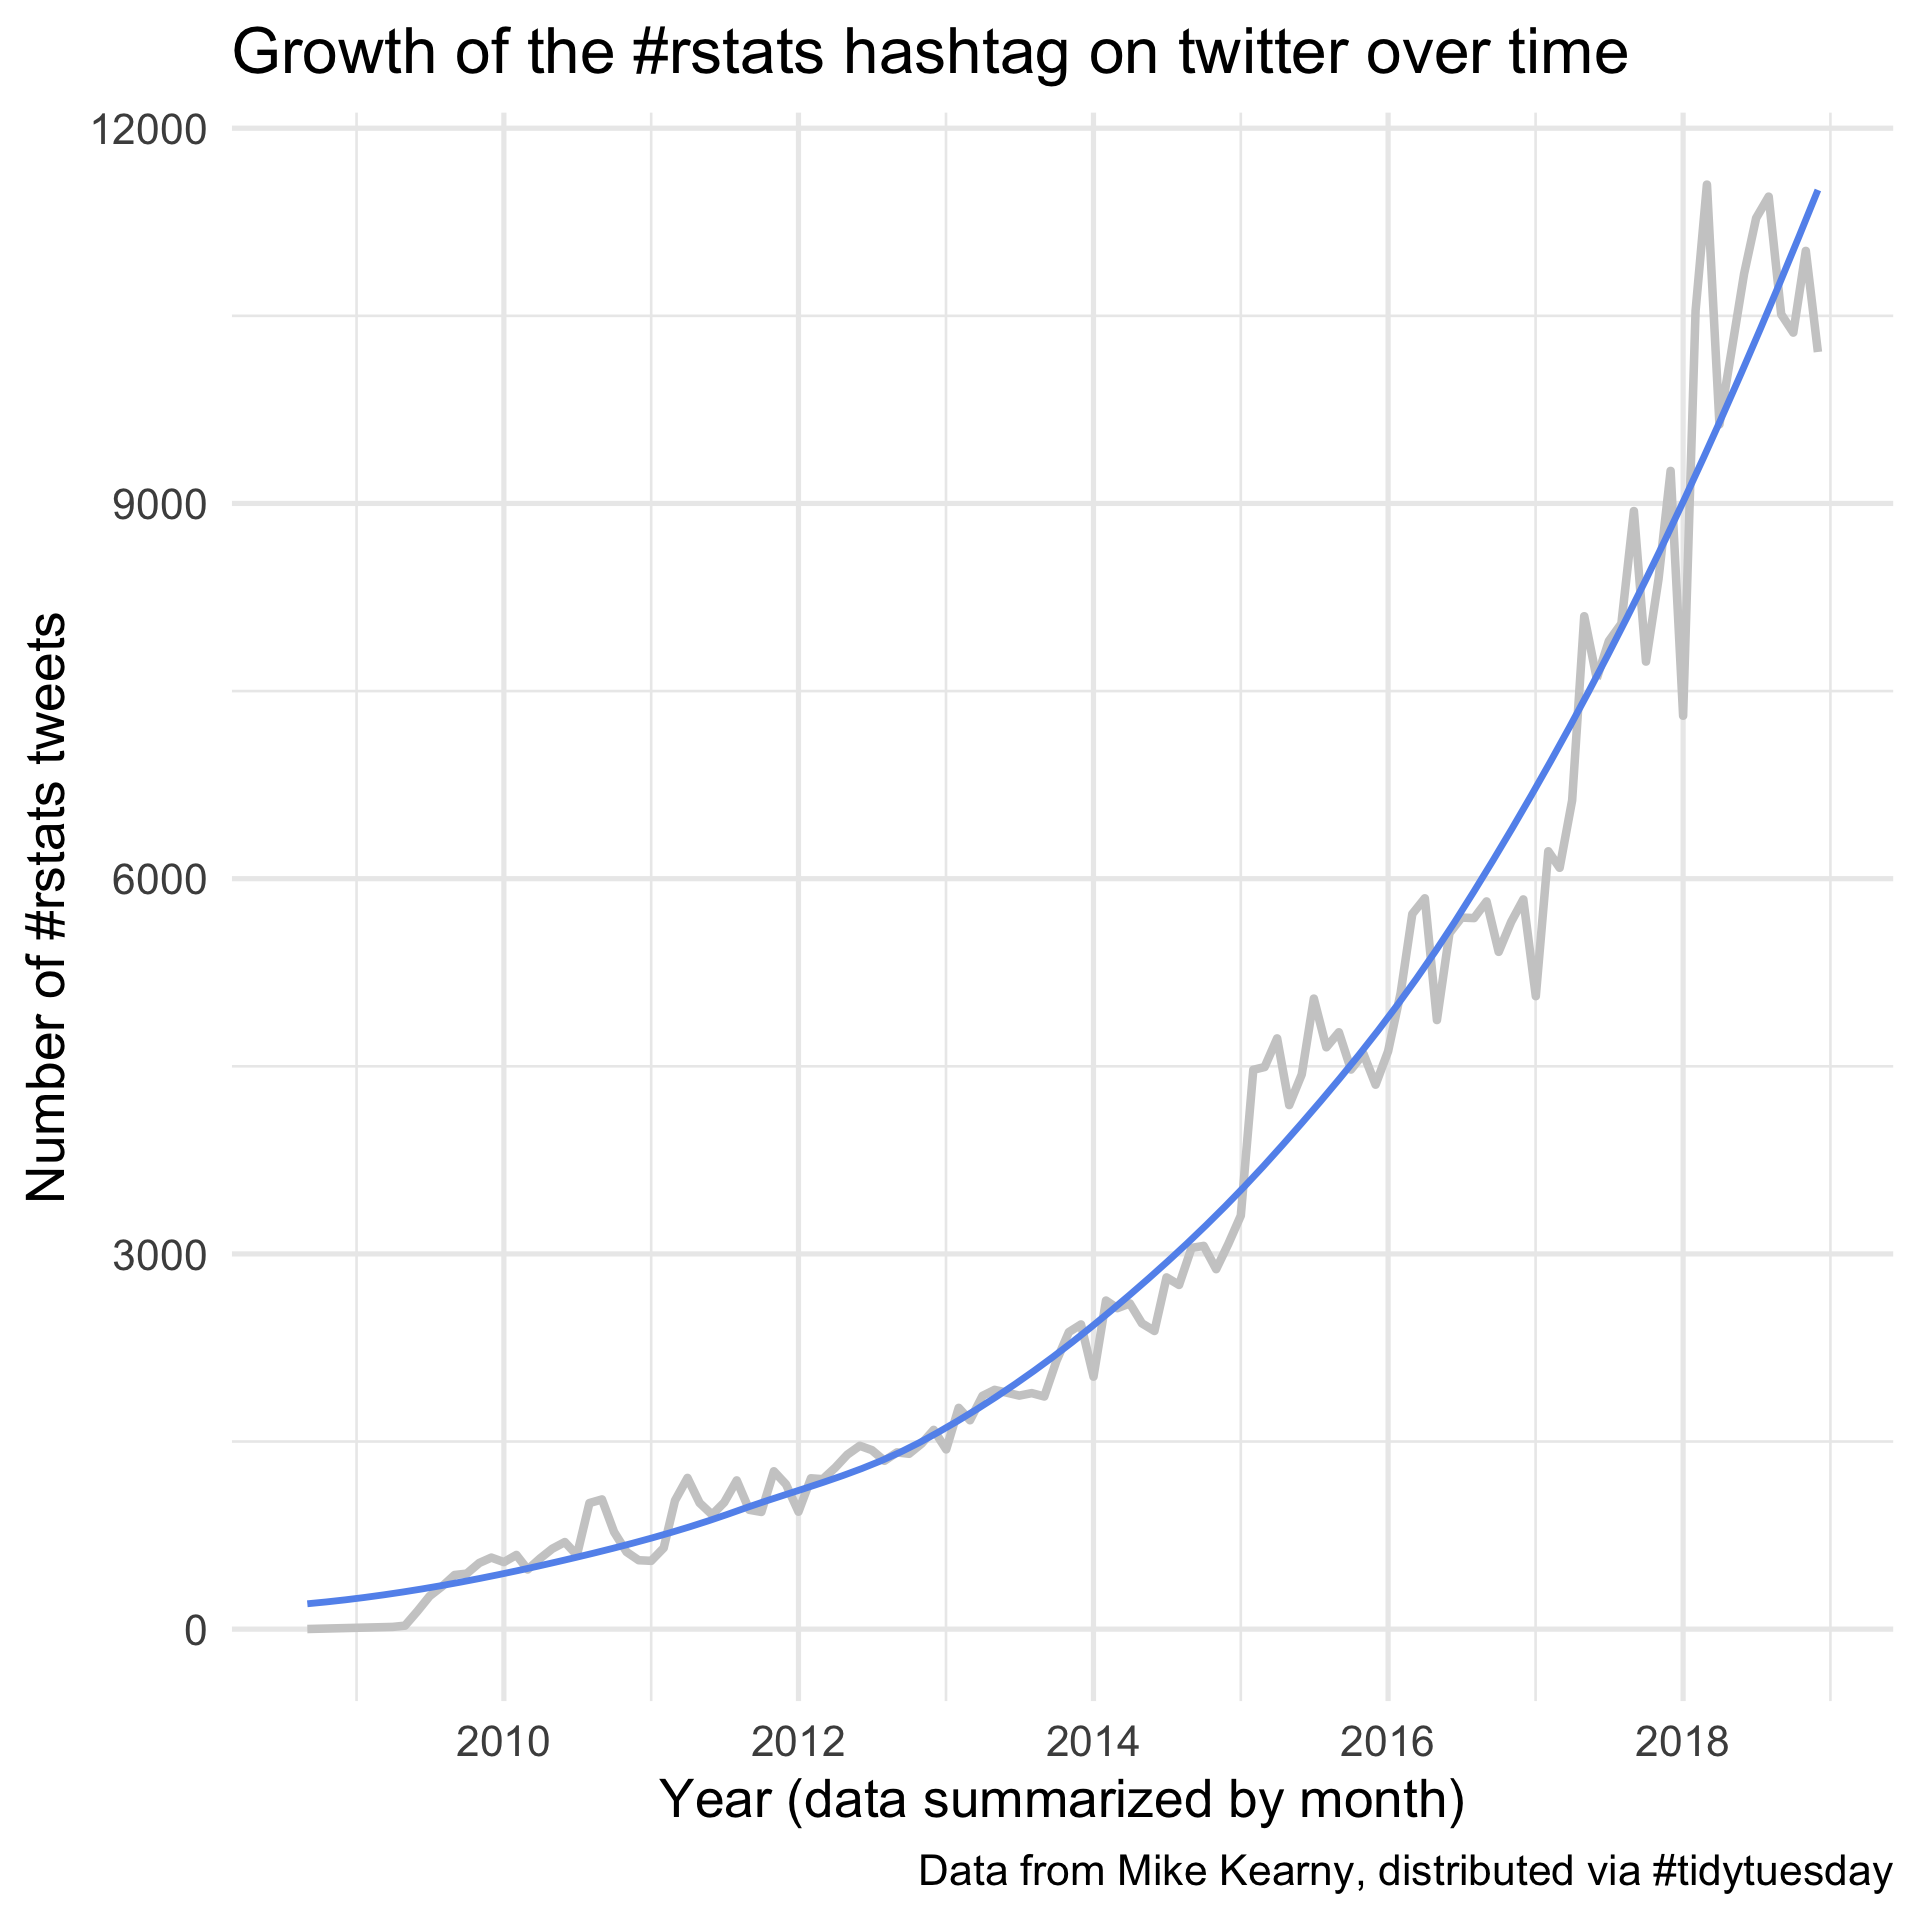
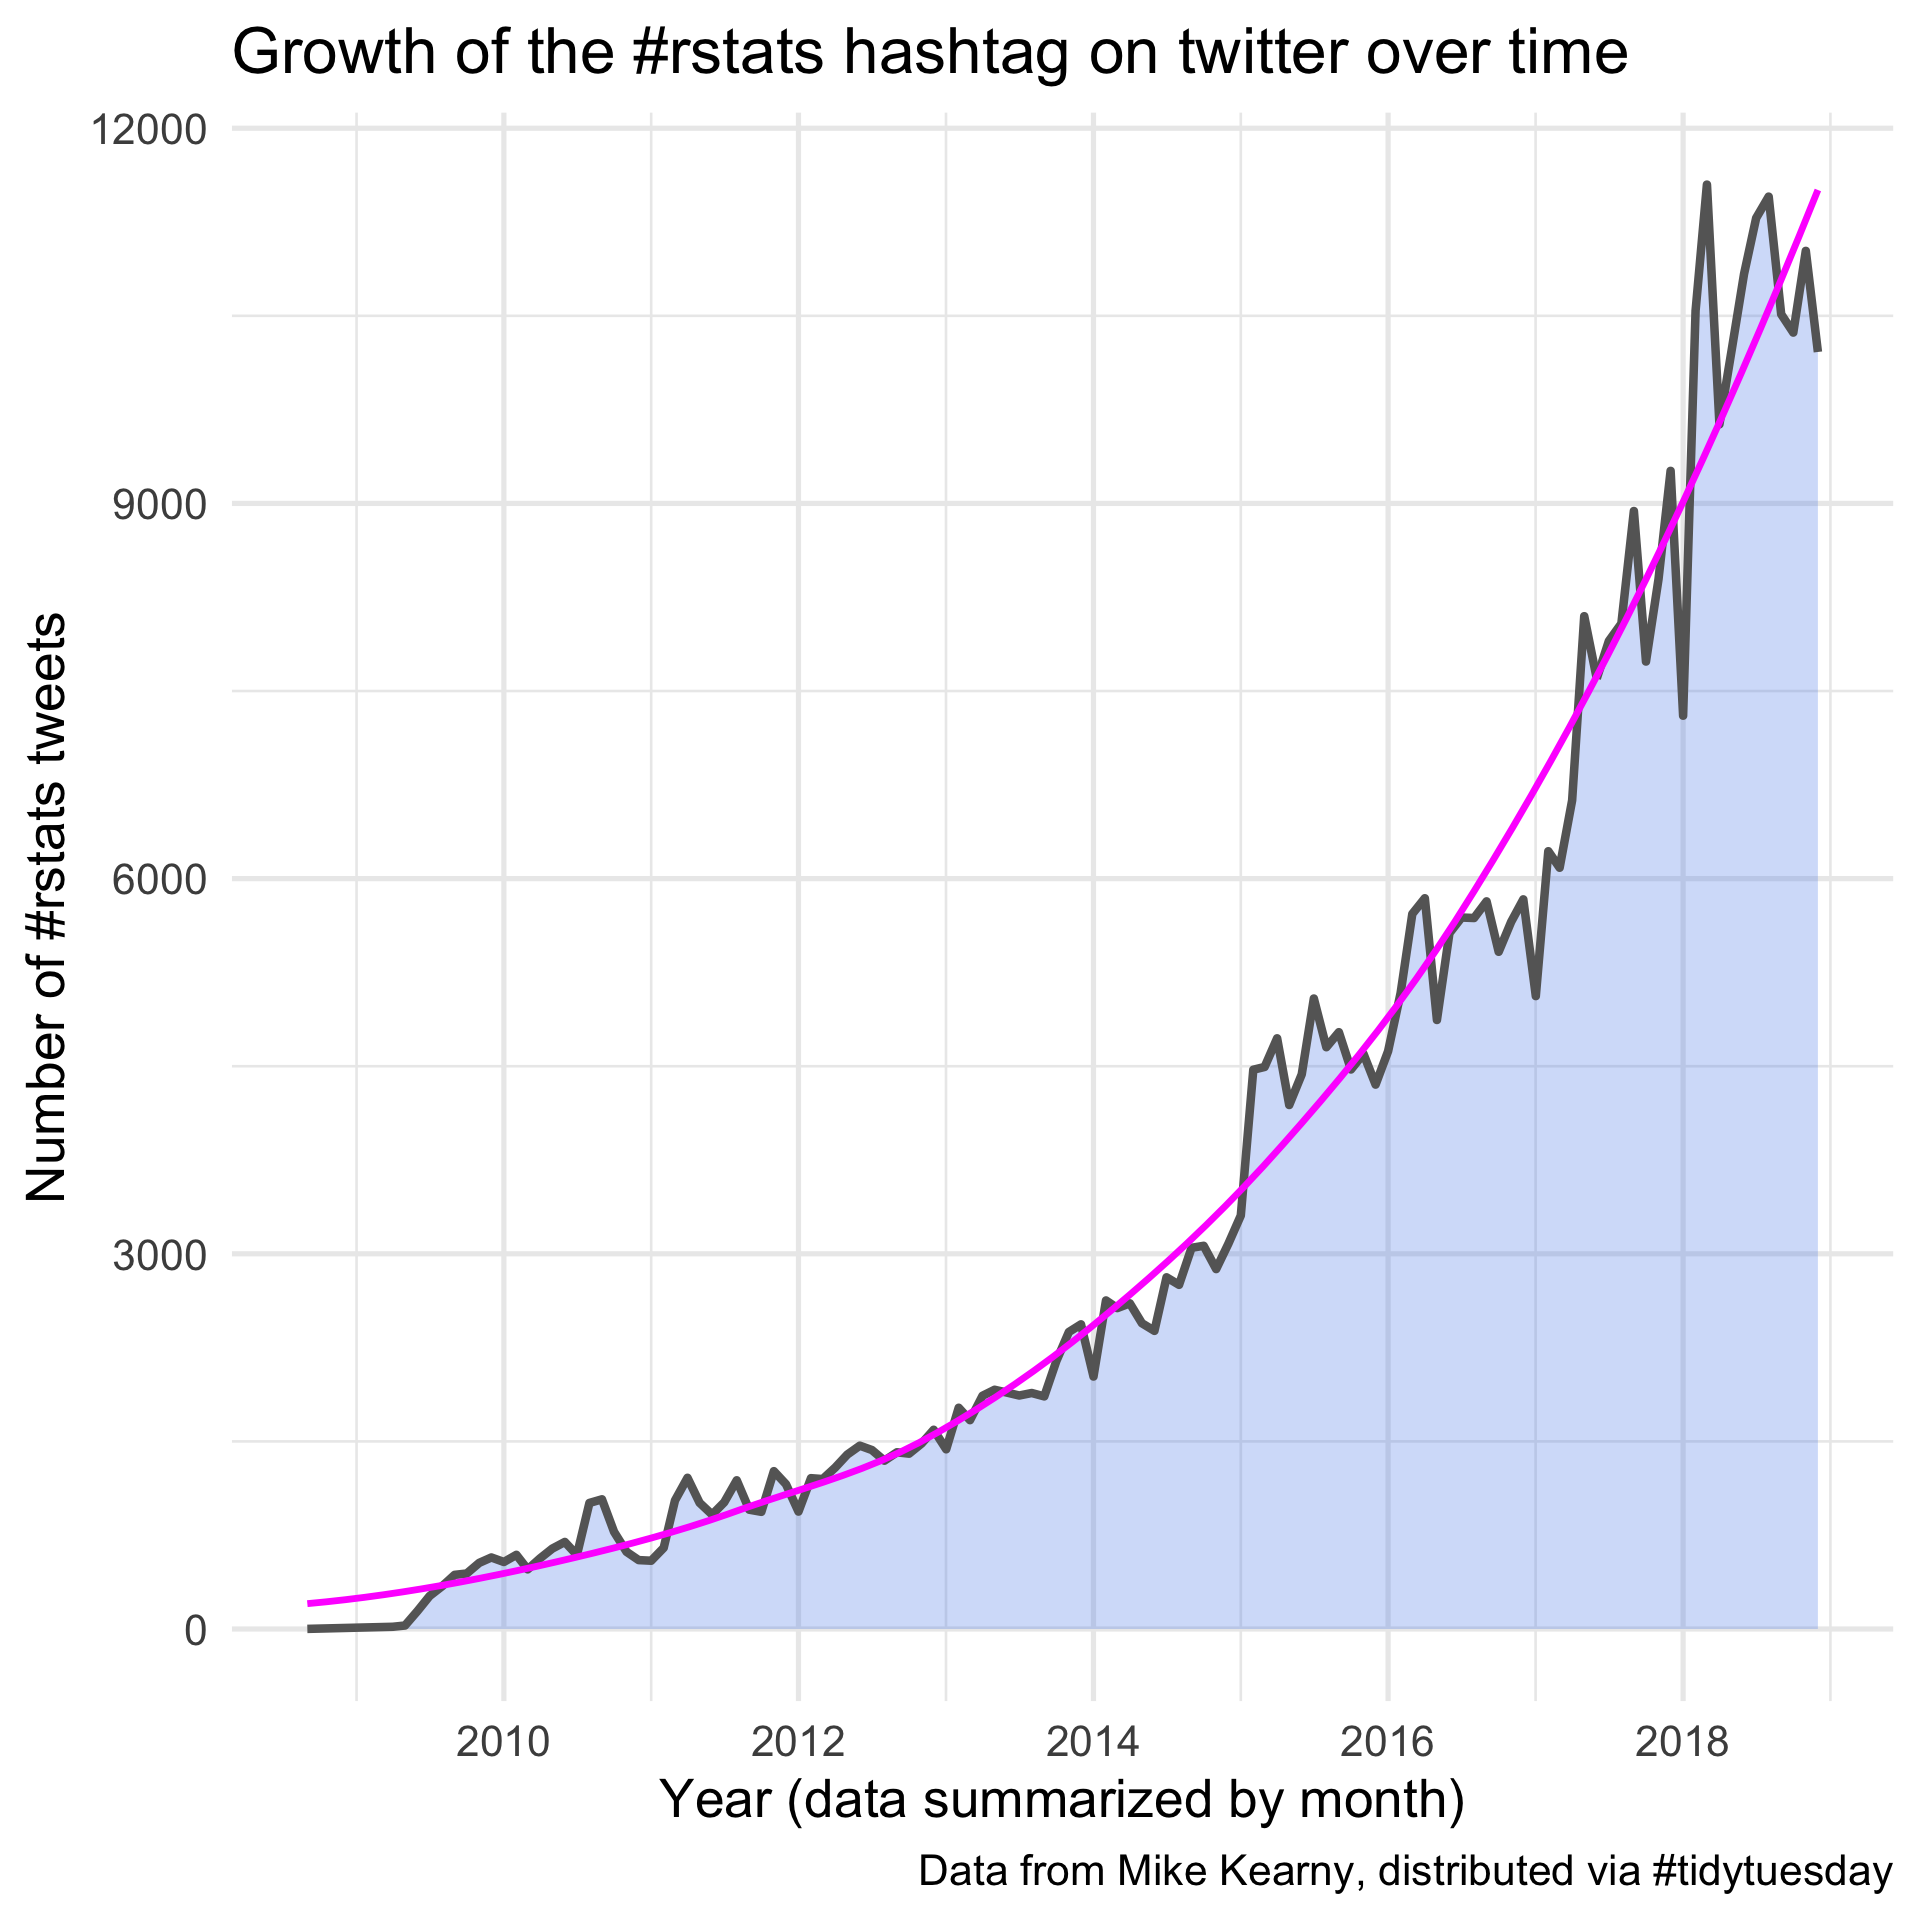
Light editing

Changed region(s): [[0.1562, 0.0938, 0.9688, 0.875]]

diff --git a/lab1.html b/lab1.html
@@ -375,12 +375,12 @@ div.tocify {
         <span class="icon-bar"></span>
         <span class="icon-bar"></span>
       </button>
-      <a class="navbar-brand" href="index.html">Communicating and Transforming Data</a>
+      <a class="navbar-brand" href="index.html">EDUC 610</a>
     </div>
     <div id="navbar" class="navbar-collapse collapse">
       <ul class="nav navbar-nav">
         <li>
-  <a href="schedule.html">Slides, Readings, and Schedule</a>
+  <a href="schedule.html">Slides, Readings, &amp; Schedule</a>
 </li>
 <li>
   <a href="assignments.html">Assignments</a>
@@ -417,7 +417,7 @@ div.tocify {
 
 <div id="overview" class="section level1">
 <h1>Overview</h1>
-<p>The purpose of this lab is to get your working with <em>git</em> and <em>GitHub</em> collaboratively. You should work together in groups of 3-4. At least one person from the group should have prior experience with <em>git/GitHub</em>. The basics of the lab are to:</p>
+<p>The purpose of this lab is to get your working with <em>git</em> and <em>GitHub</em> collaboratively, as well as to refresh some basic <a href="https://dplyr.tidyverse.org">{dplyr}</a> skills. You should work together in groups of 3-4. At least one person in your group should have prior experience with <em>git/GitHub</em>. The basics of the lab are to:</p>
 <ul>
 <li>Create a shared repo</li>
 <li>Create an R Markdown document</li>
@@ -430,13 +430,13 @@ div.tocify {
 </ul>
 <div id="data" class="section level2">
 <h2>Data</h2>
-<p>We’ll work with Week 1 of the <a href="https://twitter.com/search?q=%23tidytuesday&amp;src=tyah">#tidytuesday</a> data for 2019, specificially the <a href="https://twitter.com/search?q=%23rstats&amp;src=typd">#rstats</a> dataset containing nearly 500,000 tweets over a little more than a decade using that hashtag.</p>
+<p>We’ll work with Week 1 of the <a href="https://twitter.com/search?q=%23tidytuesday&amp;src=tyah">#tidytuesday</a> data for 2019, specifically the <a href="https://twitter.com/search?q=%23rstats&amp;src=typd">#rstats</a> dataset, containing nearly 500,000 tweets over a little more than a decade using that hashtag.</p>
 </div>
 </div>
 <div id="commits" class="section level1 tabset">
 <h1>Commits</h1>
-<p>Glance through the commits below. Each person should be responsible for at least one commit. Commit 1 must be completed first. However, please work on Commit 2 and Commit 4 simultaneously (one person working on each commit). Commits 3/5 cannot be completed until after Commits 2/4, respectively.</p>
-<p><strong>Note:</strong> You may end up with a merge conflict. That’s okay, we’re here to practice. I like <a href="https://www.gitkraken.com">gitkraken</a> for managing merge conflicts, but you can use whatever works best for you.</p>
+<p>Glance through the commits below. Each person should be responsible for <strong>at least</strong> one commit. Commit 1 must be completed first. However, please work on Commits 2 4 simultaneously (one person working on each commit). Commits 3/5 cannot be completed until after Commits 2/4, respectively.</p>
+<p><strong>Note:</strong> You may end up with a merge conflict. That’s okay, we’re here to practice. I like <a href="https://www.gitkraken.com">gitkraken</a> for managing merge conflicts (see <a href="https://blog.axosoft.com/merge-conflict-tool/">here</a>) but you can use whatever works best for you.</p>
 <div id="commit-1" class="section level2">
 <h2>Commit 1</h2>
 <ul>
@@ -445,33 +445,22 @@ div.tocify {
 <li>Create a folder in the repo called “data” and place the corresponding data there</li>
 <li>Initialize a new R Markdown document</li>
 <li>Load the data</li>
+<li>Commit and push all new files/modification to the repo</li>
 </ul>
 </div>
 <div id="commit-2" class="section level2">
 <h2>Commit 2</h2>
-<ul>
-<li>Create the following figure. Some guidance:
-<ul>
-<li>You’ll want to count the number of times a screen name appears and select only the top 25.
-<ul>
-<li>Consider using arranging in descending order, then using <code>dplyr::slice</code></li>
-</ul></li>
-<li>Make the screen name a factor, ordered according to the number of times it appears.
-<ul>
-<li>Consider <code>forcats::fct_reorder</code></li>
-</ul></li>
-<li><code>coord_flip</code> will be your friend here</li>
-</ul></li>
-</ul>
+<p>First <code>pull</code> Commit 1, then reproduce the following figure.</p>
+<p>Some guidance: * You’ll want to count the number of times a screen name appears and select only the top 25. + Consider arranging in descending order, then using <code>dplyr::slice</code> * Make the screen name a factor, ordered according to the number of times it appears. + Consider <code>forcats::fct_reorder</code> * <code>coord_flip</code> will be your friend here</p>
 <p><img src="lab1_files/figure-html/fig1-raw-1.png" width="960" /></p>
 </div>
 <div id="commit-3" class="section level2">
 <h2>Commit 3</h2>
 <ul>
-<li>Style the plot so it matchest the below.
+<li>Style the plot so it matches the below.
 <ul>
 <li>Use <code>theme_minimal</code></li>
-<li>Use <code>"cornflowerblue"</code></li>
+<li>Color with <code>"cornflowerblue"</code></li>
 <li>Increase the <code>base_size</code></li>
 <li>set the <code>fig.width</code> and <code>fig.height</code> to 10</li>
 </ul></li>
@@ -480,23 +469,18 @@ div.tocify {
 </div>
 <div id="commit-4" class="section level2">
 <h2>Commit 4</h2>
-<ul>
-<li>Create the following figure. Some guidance:
-<ul>
-<li>First create a <code>month</code> variable that rounds the <code>created_at</code> variable to the nearest month. You might consider looking at <code>lubridate::round_date</code>.</li>
-<li>Restrict the count to prior to 2019. I would recommend using <code>lubridate::as_datetime("2019-01-01 00:00:00")</code></li>
-<li>Count the number of rows (tweets) in the dataset for each month</li>
-</ul></li>
-</ul>
+<p>Create the following figure.</p>
+<p>Some guidance: * First create a <code>month</code> variable that rounds the <code>created_at</code> column to the nearest month. You might consider <code>lubridate::round_date</code>. * Restrict the count to prior to 2019. I would recommend using <code>lubridate::as_datetime("2019-01-01 00:00:00")</code>, or just restricting the x-axis through <code>ggplot</code> * Count the number of rows (tweets) in the dataset for each month</p>
 <p><img src="lab1_files/figure-html/fig2-raw-1.png" width="960" /></p>
 </div>
 <div id="commit-5" class="section level2">
 <h2>Commit 5</h2>
 <ul>
-<li>Style the plot so it matchest the below.
+<li>Modify the plot so it matches the below.
 <ul>
 <li>Use <code>theme_minimal</code></li>
-<li>Use <code>"gray80"</code> and <code>"cornflowerblue"</code></li>
+<li>Add the <code>area</code> with the appropriate function and 30% transparency</li>
+<li>Use <code>"gray40"</code>, <code>"cornflowerblue"</code>, and <code>"magenta"</code></li>
 <li>Increase the <code>base_size</code></li>
 <li>set the <code>fig.width</code> and <code>fig.height</code> to 10</li>
 </ul></li>
@@ -507,7 +491,7 @@ div.tocify {
 <div id="finishing-up" class="section level1">
 <h1>Finishing up</h1>
 <p>It is expected that this lab will take you more time that the 80 minutes we have in class. Class time should be used to clarify any points of confusion and if you run into issues after class, please get in touch with me so we can arrange a time to meet and I can help you.</p>
-<p>Once you have finished, please go to Canvas and submit a link to your shared repo.</p>
+<p>Once you have finished, please go to Canvas and submit a link to your shared repo. Credit will be awarded based on the commit history.</p>
 </div>
 
 <p>
